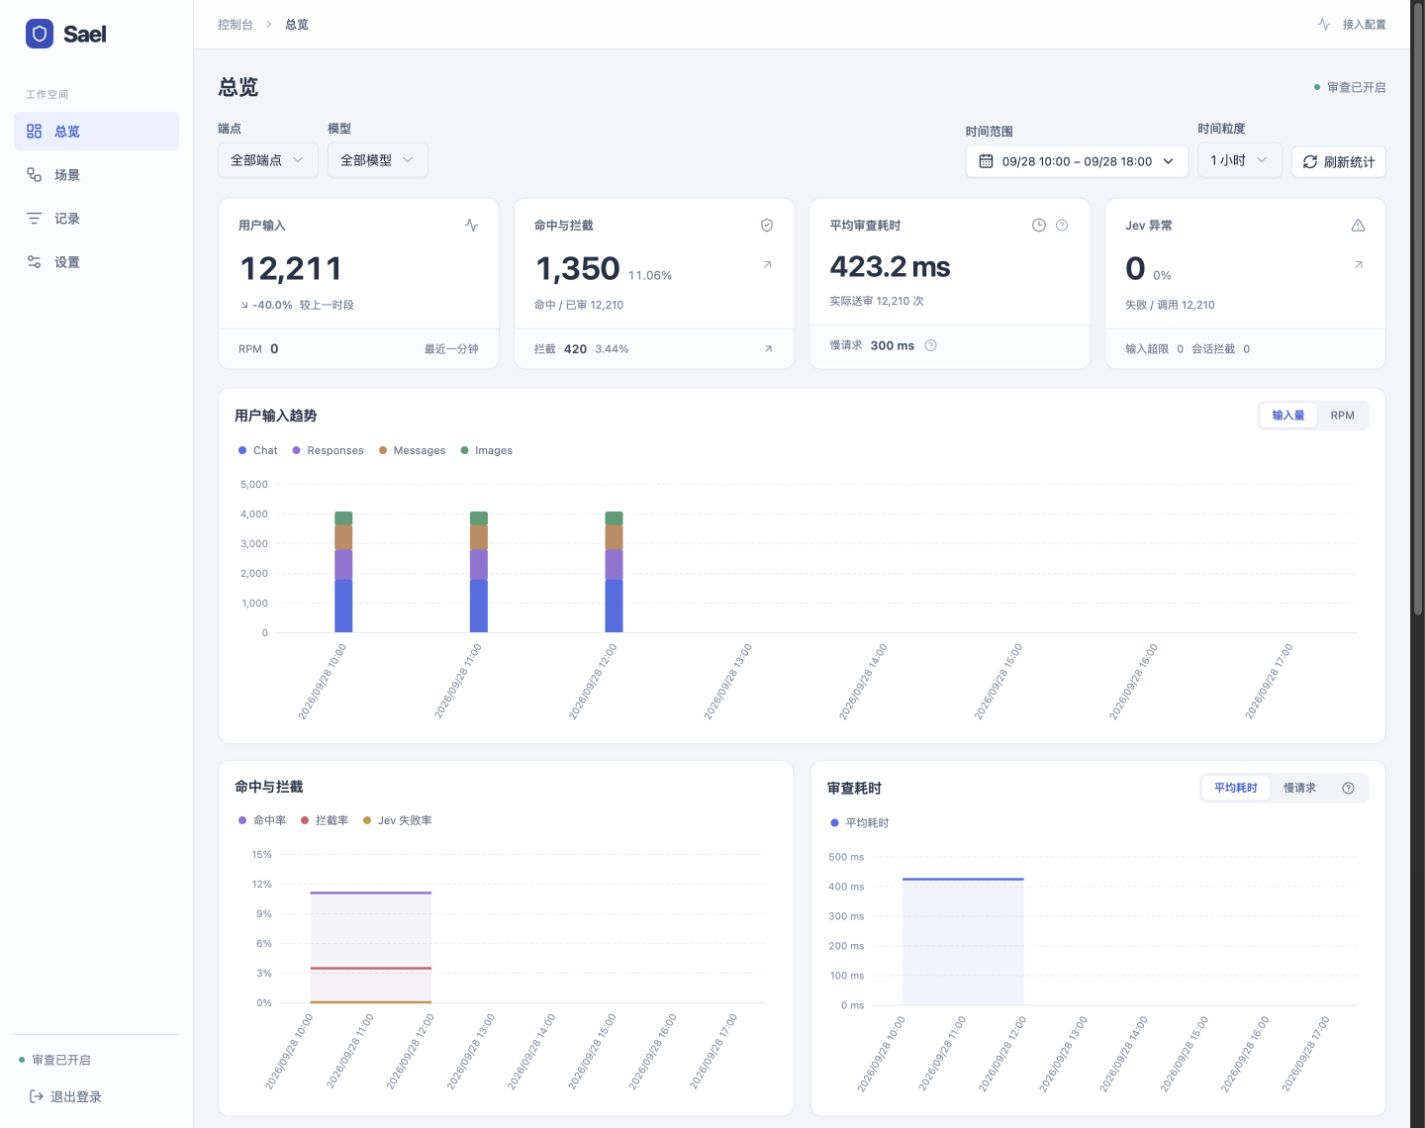
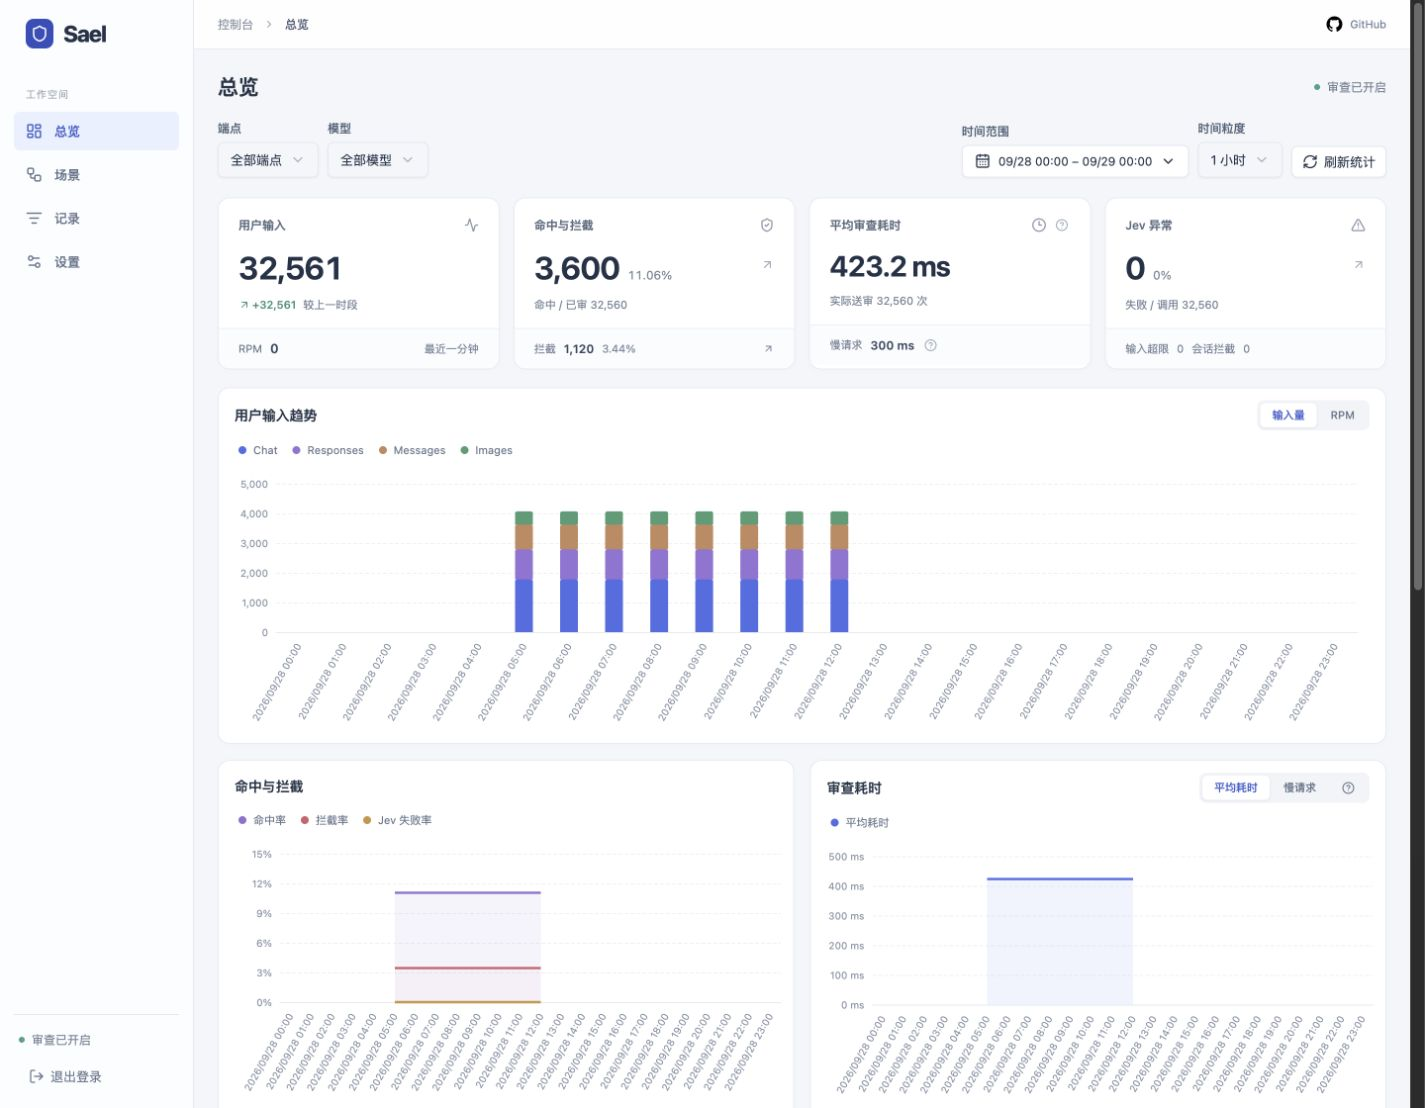
feat: add GitHub header link and refresh project README

diff --git a/gateway/web/src/App.tsx b/gateway/web/src/App.tsx
@@ -16,7 +16,6 @@ import {
   useQueryClient,
 } from "@tanstack/react-query";
 import {
-  Activity,
   ChevronRight,
   LayoutDashboard,
   ListFilter,
@@ -464,10 +463,17 @@ function Console() {
             <strong>{title}</strong>
           </div>
           <div className="topbar-actions">
-            <Activity size={14} color="#9aa8c0" />
-            <Link className="small muted" to="/settings?tab=access">
-              接入配置
-            </Link>
+            <a
+              className="small muted inline-flex items-center gap-2"
+              href="https://github.com/cipherTing/sael"
+              target="_blank"
+              rel="noopener noreferrer"
+              aria-label="GitHub 仓库"
+              title="cipherTing/sael"
+            >
+              <img src="/brands/github.svg" width={16} height={16} alt="" />
+              GitHub
+            </a>
           </div>
         </header>
         <main className="content">

diff --git a/gateway/web/src/App.test.tsx b/gateway/web/src/App.test.tsx
@@ -63,6 +63,16 @@ it("logs in and exposes four pages with access inside settings", async () => {
   await screen.findByRole("heading", { name: "总览" }, { timeout: 10000 });
   for (const label of ["总览", "场景", "记录", "设置"])
     expect(screen.getByRole("link", { name: label })).toBeTruthy();
+  const repository = screen.getByRole("link", { name: "GitHub 仓库" });
+  expect(repository.getAttribute("href")).toBe(
+    "https://github.com/cipherTing/sael",
+  );
+  expect(repository.getAttribute("target")).toBe("_blank");
+  expect(repository.getAttribute("rel")).toContain("noopener");
+  expect(repository.querySelector("img")?.getAttribute("src")).toBe(
+    "/brands/github.svg",
+  );
+  expect(screen.queryByRole("link", { name: "接入配置" })).toBeNull();
 }, 30000);
 it("preserves endpoint, error and exact time filters on the next records page", async () => {
   window.history.pushState(

diff --git a/docs/README_en.md b/docs/README_en.md
@@ -20,7 +20,7 @@ A text review gateway between your clients and AI services, with a visual operat
 
 ## What is Sael?
 
-Sael adds text safety review to existing AI services. Clients use the Sael ingress address with their existing API key. The gateway applies scenarios to the current user input, blocks or records matches, and forwards requests to your configured AI service. Classification is provided by [Jev](https://docs.typesafe.ai/models).
+Sael adds text safety review to existing AI services. Clients use the Sael ingress address with their existing API key. The gateway reviews the current user input against your scenarios, blocks or records matches, and forwards allowed requests to your configured AI service. Classification is provided by [Jev](https://docs.typesafe.ai/models).
 
 Configure rules in the console, compare a draft with the active policy, and follow dashboard data into individual problem requests. Sael supports OpenAI and Anthropic request formats while preserving request bodies, credentials and streaming responses.
 
@@ -28,24 +28,26 @@ Configure rules in the console, compare a draft with the active policy, and foll
 | --- | --- |
 | Different rules for different APIs and models | Scenario scopes, any/all conditions, raw score thresholds and drag ordering |
 | Validate a rule before saving it | Text testing, active/draft comparison and templates from existing scenarios |
-| See how review is running | Live RPM, traffic and hit trends, outcome composition, latency distribution and cache efficiency |
+| See how review is running | User input counts, RPM for the last minute, hit and block trends, latency distribution and cache efficiency |
 | Locate concentrated risk | Scenario, credential and source IP rankings with filtered record drilldown |
-| Investigate a request | Redacted text previews and full text, masked keys, conversation association and matched scores |
+| Investigate a request | User input, matched scores, masked keys, source IP and request parameters |
 | Handle repeated violations | Reused review decisions and optional session freezes per scenario |
 
 ## Organize rules as scenarios
 
-Each scenario owns its thresholds and action. Select endpoints and models, combine conditions, and drag scenarios to set priority. Sliders and numeric inputs support both quick adjustments and exact values. Testing lives in the editor, so you can compare active and draft results before saving.
+Each scenario includes an endpoint scope, model scope, review conditions and action. Combine conditions with any/all matching, and drag scenarios to set priority. Sliders and numeric inputs support both quick adjustments and exact values. Testing lives in the same workspace, so you can compare active and draft results before saving.
 
 ![Scenario workspace: score controls, scope, actions and policy testing](images/scenes.png)
 
 ## From an overview to a problem request
 
-Trends, composition, distributions and rankings show review activity together. Time range and time granularity are separate controls. Endpoint, model and other filters carry through to request records.
+The overview centers on user input, combining trends, composition, latency distributions and risk rankings. Time range and time granularity are separate controls. Opening records from a metric preserves its filter scope.
 
 ![Review record: request metadata, redacted text and matched scores](images/record.png)
 
-Individual records contain scenario hits, classifier failures and gateway warnings. Clean requests do not store individual prompt bodies. Recorded text is redacted; API keys are stored encrypted and displayed only as masked values. The console currently uses Chinese labels.
+Records place the request summary and user input first, followed by matched scores and request parameters. Masked keys, IP addresses, sessions and client information help identify the source. Long text opens as a redacted preview; the full text can be loaded on demand.
+
+Individual records contain only scenario hits, classifier failures and gateway warnings. Clean requests do not store individual prompt bodies. API keys are stored encrypted and displayed only as masked values. The console currently uses Chinese labels.
 
 Screenshots show the local console with sample data.
 
